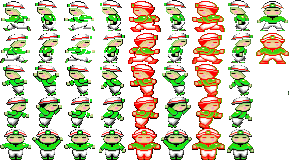
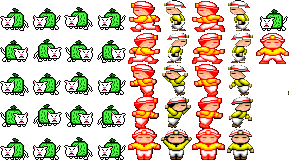
2020/11/03 新增 memeCat 事件

diff --git a/play.js b/play.js
@@ -33,8 +33,8 @@ var platformsStatus ="active";
 
 var breakNewRocord = false;
 
-// 人民法槌集氣條
-var rageNameList = [];
+// memeCat集氣條
+var memeCatNameList = [];
 
 // 苦力怕集氣條
 var creepNameList = [];
@@ -192,6 +192,16 @@ var playState =
     var eq = game.add.text(1350,180 , "=", textStyleI);    
 
     var logo_player3 = game.add.sprite(1390,160 , 'logo_player3' );
+
+    logo_player3.scale.setTo(2,2);
+
+    var logo_LUL = game.add.sprite(1240,280 , 'kappa' );
+
+    logo_LUL.scale.setTo(0.25,0.25);
+
+    var eq2 = game.add.text(1350,300 , "=", textStyleI);    
+
+    var logo_player3 = game.add.sprite(1390,280 , 'logo_player6' );
 
     logo_player3.scale.setTo(2,2);
     
@@ -1294,6 +1304,24 @@ function createTextPanel(text,eventType) {
     
   }
 
+  // nyanMeme事件
+  if(eventType=="nyanMeme")
+  {
+    var nyanMemeLogo = game.add.sprite(130,50, "memeCatRainbow");    
+    
+      nyanMemeLogo.scale.setTo(0.8, 0.8);
+       
+      nyanMemeLogo.animations.add("memeCatRainbow", [0,1], 8);
+
+      nyanMemeLogo.animations.play("memeCatRainbow",8,true);      
+       
+      textPanel.addChild(nyanMemeLogo);          
+      
+      //延遲幾秒後 秒後 magic
+      setTimeout(( () => magicFloorChange() ), 3000); 
+  }
+     
+
   //Monster 事件
   if(eventType=="monster")
   {
@@ -1308,6 +1336,7 @@ function createTextPanel(text,eventType) {
       monsterLogo.animations.play("right",8,true);      
         
       textPanel.addChild(monsterLogo);
+    
     
   }
 
@@ -1361,6 +1390,94 @@ function cleanTextPanel(textPanelClean) {
   // TextPanel.body.onMoveComplete.add(( () => console.log("onMoveComplete!!")), this);
               
 }
+
+// 喵咪事件改變地板
+function magicFloorChange() {
+
+  var x = Math.random() * (gameWidth - 96 * scale - 40 * scale) + 20 * scale +400;
+  
+  var y = gameHeight;
+
+  var rand = Math.random() * 100;
+
+  for (var i = 0; i < platforms.length; i++) {
+   
+    var platform = platforms[i];
+
+    const  smokeTele = game.add.sprite(platform.body.x,platform.body.y, "smoke");
+    smokeTele.scale.setTo(4,4);
+    smokeTele.animations.add("smoke", [0, 1, 2, 3,4,5], 6).killOnComplete = true;
+    smokeTele.animations.play("smoke");
+    
+    platform.Explodede = true;
+
+    // let platformType = "normal";
+
+    // if (rand < 50) {
+    //   platform = game.add.sprite(x, y, "normal");
+    // }
+    // else if (rand < 60) {
+    //   platform = game.add.sprite(x, y, "nails");
+    //   platformType = "nails";
+    //   game.physics.arcade.enable(platform);
+    //   platform.body.setSize(96, 15, 0, 15);
+    // }
+    // else if (rand < 70) {
+    //   platform = game.add.sprite(x, y, "conveyorLeft");
+    //   platformType = "conveyorLeft";
+    //   platform.animations.add("scroll", [0, 1, 2, 3], 16, true);
+    //   platform.play("scroll");
+    // }
+    // else if (rand < 80) {
+    //   platform = game.add.sprite(x, y, "conveyorRight");
+    //   platformType = "conveyorRight";
+    //   platform.animations.add("scroll", [0, 1, 2, 3], 16, true);
+    //   platform.play("scroll");
+    // }
+    // else if (rand < 90) {
+    //   platform = game.add.sprite(x, y, "trampoline");
+    //   platformType = "trampoline";
+    //   platform.animations.add("jump", [4, 5, 4, 3, 2, 1, 0, 1, 2, 3], 120);
+    //   platform.frame = 3;
+    // }
+    // else {
+    //   platform = game.add.sprite(x, y, "fake");
+    //   platformType = "fake";
+    //   platform.animations.add("turn", [0, 1, 2, 3, 4, 5, 0], 14);
+    // }
+
+    // platform.scale.setTo(scale, scale);
+    // game.physics.arcade.enable(platform);
+    // platform.body.immovable = true;
+
+    // // Offset collison box by 6 of y to actually touch the platform
+    // if (platformType === "trampoline") {
+    //   platform.body.setSize(96, 22, 0, 6);
+    // }
+
+    // if (platformType === "fake") {
+    //   platform.body.setSize(96, 22, 0, 10);
+    // }
+
+    // // platform.body.checkCollision.up = false;
+    // platform.body.checkCollision.down = false;
+    // platform.body.checkCollision.left = false;
+    // platform.body.checkCollision.right = false;
+    // platform.platformType = platformType;
+    
+    
+  }
+
+  smokeSFX.play();
+ 
+
+}
+
+  
+              
+
+
+
 
 
 

diff --git a/cross.js b/cross.js
@@ -95,15 +95,19 @@ ComfyJS.onChat =( user, message, flags, self, extra )=>
 
     if(populations.length>2)
     {
-      if(populations[2].species ==2)
-      {
-        populations[2].players = populations[2].players.concat(populationMoster.players);        
-      }      
-      else
-      {
-        populations.push(populationMoster);      
-      }
-      
+      var alreadyMonster = false;
+        for (let po = 0; po < populations.length; po++) {
+
+          if (populations[po].isMonster) {
+              populations[po].players = populations[po].players.concat(populationMoster.players);                                        
+              alreadyMonster = true;
+          }       
+        }
+        if(!alreadyMonster)
+        {
+          populations.push(populationMoster);      
+
+        }                          
     }
     else
     {
@@ -115,33 +119,73 @@ ComfyJS.onChat =( user, message, flags, self, extra )=>
   }
   if(status === "playing")
   {
-        // 表情符號
+    // 表情符號
     if(message==="LUL")
     {
       // Doge 家族新成員
       populationDoge = new Population(1,user, 3,false);
-
       populationDoge.isPlayer = false;
+      populationDoge.isNPC = true;
 
       // 複製目前存活AI 避免弱智新生兒 拖累進度
-      populationDoge.copyAliveBrain();
-      
+      populationDoge.copyAliveBrain();      
       if(populations.length>2)
-      {
-        if(populations[2].species ==3)
-        {
-          populations[2].players = populations[2].players.concat(populationDoge.players);        
-        }      
-        else
+      {        
+        var alreadyNPC = false;
+        for (let po = 0; po < populations.length; po++) {
+
+          if (populations[po].isNPC) {
+              populations[po].players = populations[po].players.concat(populationDoge.players);                                        
+              alreadyNPC = true;
+          }       
+        }
+        if(!alreadyNPC)
         {
           populations.push(populationDoge);      
-        }
+
+        }               
       }
       else
       {
         populations.push(populationDoge);    
       }
       born.play();
+    }
+
+    // 表情符號
+    if(message==="Kappa")
+    {
+      
+      // Cat 家族新成員
+      populationCat = new Population(1,user, 6,false);
+      populationCat.isPlayer = false;
+      populationCat.isNPC = true;
+
+      // 複製目前存活AI 避免弱智新生兒 拖累進度
+      populationCat.copyAliveBrain();      
+      if(populations.length>2)
+      {        
+        var alreadyNPC = false;
+        for (let po = 0; po < populations.length; po++) {
+
+          if (populations[po].isNPC) {
+              populations[po].players = populations[po].players.concat(populationCat.players);                                        
+              alreadyNPC = true;
+          }       
+        }
+        if(!alreadyNPC)
+        {
+          populations.push(populationCat);      
+
+        }               
+      }
+      else
+      {
+        populations.push(populationCat);    
+      }
+      born.play();
+
+      createTextPanel("nyan ~ & magic~" ,"nyanMeme");   
     }
   }
     

diff --git a/Player.js b/Player.js
@@ -263,36 +263,36 @@ class Player {
 
     game.physics.arcade.collide(this.player, [rage]);
 
-    // 有怪物populations存活 進入攻擊模式
-    if(populations.length >3)
-    {
-      if (!populations[3].done())
-      {
-        // this.attackMode = true;
+    // // 有怪物populations存活 進入攻擊模式
+    // if(populations.length >3)
+    // {
+    //   if (!populations[3].done())
+    //   {
+    //     // this.attackMode = true;
 
-        // 隨機開槍
-        this.attackMode = Math.random() >= 0.5;
+    //     // 隨機開槍
+    //     this.attackMode = Math.random() >= 0.5;
 
-        // 不開槍的話，這一秒內都不會開槍
-        if(!this.attackMode )
-        {
-          // this.isPlayingAnimation = true;
+    //     // 不開槍的話，這一秒內都不會開槍
+    //     if(!this.attackMode )
+    //     {
+    //       // this.isPlayingAnimation = true;
     
-          // // setTimeout(() => {
+    //       // // setTimeout(() => {
             
-          // //   this.isPlayingAnimation = false;
-          // // }, 1000);
-        }
+    //       // //   this.isPlayingAnimation = false;
+    //       // // }, 1000);
+    //     }
 
-      }
-      else
-      {
-        this.attackMode = false;
-      }
+    //   }
+    //   else
+    //   {
+    //     this.attackMode = false;
+    //   }
 
 
       
-    }
+    // }
 
     // 再次確認無血者死
     if (this.player.life <= 0 && !this.dead) {

diff --git a/Monster.js b/Monster.js
@@ -183,6 +183,8 @@ class Monster {
           if (!populations[po].players[i].dead ) {      
               
             game.physics.arcade.collide(this.player,populations[po].players[i].player,this.monsterEffect.bind(this));
+
+            // game.physics.arcade.collide(this.player,populations[po].players[i].player,this.monsterEffect(this.player,populations[po].players[i].player,populations[po].players[i]));
           }             
         }
               
@@ -1110,7 +1112,7 @@ class Monster {
   }
 
     // monsterEffects
-    monsterEffect(monster, player) {
+    monsterEffect(monster, player,uperPlayer) {
       
       // 板塊停止時，怪物不會有傷害
       if(platformsStatus !="active")
@@ -1122,6 +1124,16 @@ class Monster {
       if(player.species ==3)
       {
         monster.life =1;
+        
+        player.animations.add("attack", [17,26], 8);
+        player.animations.play("attack");
+
+        // uperPlayer.isPlayingAnimation = true;
+    
+        // setTimeout(() => {
+          
+        //   uperPlayer.isPlayingAnimation = false;
+        // }, 1000);
 
         // 受傷怪物 閃紅光
         game.add.tween(monster).to({

diff --git a/load.js b/load.js
@@ -54,6 +54,8 @@ var loadState =
 
     // game.load.spritesheet("smokeTele", "smokeTele.png", 60, 60);
     game.load.spritesheet("smoke", "smoke.png", 16, 16);
+
+    game.load.spritesheet("memeCatRainbow", "memeCatRainbowSprite.png", 960, 320);
   
     game.load.spritesheet("killmark", "killmark.png", 32, 32);
   
@@ -112,6 +114,8 @@ var loadState =
     game.load.image("logo_player4", "logo_player4.png");
     
     game.load.image("logo_player5", "logo_player5.png");
+
+    game.load.image("logo_player6", "logo_player6.png");
 
     game.load.image("winT", "winT.png");
     game.load.image("winB", "winB.png");

diff --git a/Population.js b/Population.js
@@ -12,6 +12,7 @@ class Population {
     this.nowAlive = 0;
     this.isMonster =isMonster;
     this.isPlayer =true;
+    this.isNPC =false;
     this.populationVoice =undefined;
     // 說了幾段話
     this.populationSpeechCounter =0;
